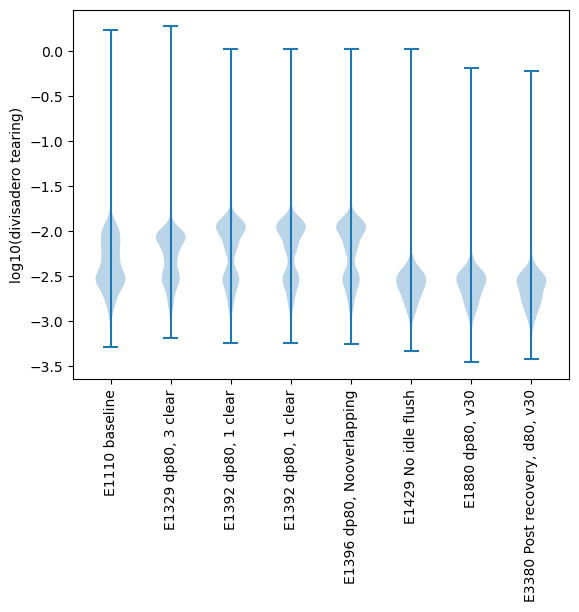
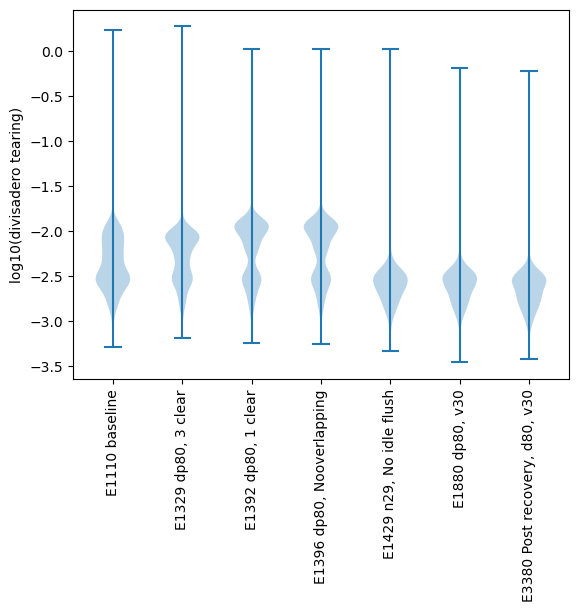
The version of Dec 24

diff --git a/body.tex b/body.tex
@@ -298,10 +298,12 @@ primary acquisition sequences.
   flat pair metrics.
 \end{itemize}
 
+%% add PTC turnoff, Bias stability, Brighter-fatter correlation, and Row means variance to show consistency
+
 \begin{figure}
 \begin{centering}
 \includegraphics[width=0.9\textwidth]{sections/figures/baselineCharacterization/PTC_BProtocol_Comparison.jpg}
-	\caption{Photon Transfer Curve Protocol Comparison
+	\caption{Flat-pair comparison between PTC and B protocol
 \label{fig:PTC_BProtocol_Comparison}}
 \end{centering}
 \end{figure}
@@ -1246,13 +1248,15 @@ However, it was reported that running IDLE\_FLUSH exacerbates the Divisidero tea
 
 This temperature variation in the focal plane can lead to changes in the REB temperature, potentially causing gain variations or instability in the bias. Based on these considerations, we decided to disable IDLE\_FLUSH. The impact of this change on bias stability is discussed in Sections~\ref{bias-stability-2} and~\ref{gain-stability-2}.
 
-Figure \ref{IdleFlushEffect:divisadero} shows the impact on the Divisadero tearing. The runs shown here are selected B protocol runs with different settings. There was a couple of major changes, 1) switching narrower parallel swing voltage, 2) changing the number of clears before the exposure, 3) disabling IDLE\_FLUSH. The major change can be seen when we switched not to run IDLE\_FLUSH at E1429, which brought the overall distribution down. The distributions are consistent after.
 \begin{figure}
 \begin{centering}
 \includegraphics[width=0.9\textwidth]{sections/figures/divisadero.png}
 \end{centering}
-\caption{Impact of enabling and disabling IDLE\_FLUSH on Divisadero tearing}\label{IdleFlushEffect:divisadero}
+\caption{Impact of disabling IDLE\_FLUSH on Divisadero tearing}\label{IdleFlushEffect:divisadero}
 \end{figure}
+Figure \ref{IdleFlushEffect:divisadero} shows the impact on the Divisadero tearing. The runs shown here are selected B protocol runs with different settings in the time order. There were a couple of changes: 1) switching narrower parallel swing voltage, 2) changing the number of clears before the exposure, 3) disabling IDLE\_FLUSH.  Some minor changes in each changes are also included such as changing the numbr of clears, or changing the sequencer file (the change from v29 to v30 incorporated the change in the clear. So it essentially corresponds to change in the clear). The figure includes both ITL and E2V results. The two distinct distributions in earlier runs correspond to those vendor differences (the higher one is E2V and the lower one is ITL). The major change can be seen when we switched not to run IDLE\_FLUSH at E1429, which brought the overall distribution down. The two distributions became indistinguishable, which indicates the majority of the Divisadero tearing for E2V is mostly mitigated.
+
+E3380 was the run taken after the recovery from the shutdown due to poor performance of the Pumped Coolant System. This fact confirms that the metric is consistent over the power cycle.
 
 \subsection{Summary}\label{summary}
 E2V sensors had persistence. We confirmed narrowing parallel swing voltage of the E2V CCD operation greatly reduced persistence. As penalties, we observed 22\% of
@@ -1261,7 +1265,7 @@ brightter-fatter effect, essentially in an isotropic way.
 
 We developed v30 sequencer files that have guider functionality build in and an improved clear of No Pocket Serial Flush.
 
-We also disabled IDLE\_FLUSH to improve the thermal situation.
+We also disabled IDLE\_FLUSH to improve the thermal situation and the Divisadero tearing.
 
 Sequencer files have undergone evolution for both ITL and e2v versions.
 The latest sequencer file from Run 6 was the
@@ -1678,20 +1682,32 @@ Further studies are required in order to converge on the best mitigation
 strategy for the start of the LSST survey.
 
 \subsection{Gain stability}\label{gain-stability-2}
-
-hello world.
-
-This section describes gain stability.
-
+The "relative gain" is defined as the ratio of the signal observed in a CCD divided by the integration of the photodiode with respect to an arbitrary normalization.
+With the fixed flat illumination, the variation in the relative gain over exposures can be utilized to investigate the relative gain difference. We acquired flat images at the same flux level with two distinct temperature conditions: either intentionally altered or maintained constant.
 \begin{itemize}
-\tightlist
-\item
-  No temp variation, fixed flux
-\item
-  no temp variation, variation in flux
-\item
-  Temp variation, fixed flux
+    \item E1496 (dp80, constant temp, v29\_Nop, nm750, 10k e-)
+    \item E1367 (dp80, temp swing, v29, nm750, 50k e-)
+    \item E756 (dp80, gain stability @ 50k e-)
+    \item E1362 (dp80, 10k e-)
 \end{itemize}
+(YU: WORK IN PROGRESS)
+
+
+\begin{figure}[htbp]
+\centering
+\begin{minipage}{0.45\textwidth}
+    \centering
+    \includegraphics[width=\textwidth]{sections/figures/RelgainParametersTrending.png}
+    \caption{Distribution of the stability metric for the e2v amplifiers in run E2136}
+\end{minipage}
+\hfill
+\begin{minipage}{0.45\textwidth}
+    \centering
+    \includegraphics[width=\textwidth]{sections/figures/RelgainDetail.png}
+    \caption{Mosaic of e2v amplifiers identified as instable (white color) in run E2136}
+\end{minipage}
+\end{figure}
+
 
 \section{Sensor features}\label{sensor-features}
 
@@ -2171,8 +2187,7 @@ FP\phantomsection\label{itl_2s_l3cp_v30.seq}{ITL\_2s\_l3cp\_v30.seq} \\
   FP\phantomsection\label{itl_2s_l3cp_v29_noppp.seq}{ITL\_2s\_l3cp\_v29\_Noppp.seq}
   and
   FP\phantomsection\label{e2v_2s_l3cp_v29_nopsf.seq}{E2V\_2s\_l3cp\_v29\_NopSf.seq}.
-  All sequencer files can be found in the
-  \href{https://github.com/lsst-camera-dh/sequencer-files/tree/master/run7}{github
+  All sequencer files can be found in the \href{https://github.com/lsst-camera-dh/sequencer-files/tree/master/run7}{github
   repository}.
 \end{itemize}
 
@@ -2190,11 +2205,7 @@ This section describes run 7 record runs.
 
 All runs use our camera operating configuration, unless otherwise noted.
 
-\begin{longtable}[]{@{}
-  >{\raggedright\arraybackslash}p{(\linewidth - 6\tabcolsep) * \real{0.1421}}
-  >{\raggedright\arraybackslash}p{(\linewidth - 6\tabcolsep) * \real{0.0474}}
-  >{\raggedright\arraybackslash}p{(\linewidth - 6\tabcolsep) * \real{0.0421}}
-  >{\raggedright\arraybackslash}p{(\linewidth - 6\tabcolsep) * \real{0.7579}}@{}}
+\begin{longtable}{|p{2cm}|p{2cm}|p{2cm}|p{10cm}|}
 \caption{Record runs}\tabularnewline
 \toprule\noalign{}
 \begin{minipage}[b]{\linewidth}\raggedright
@@ -2205,7 +2216,7 @@ Run ID
 Links
 \end{minipage} & \begin{minipage}[b]{\linewidth}\raggedright
 Notes
-\end{minipage} \\
+\end{minipage} \\ \hline
 \midrule\noalign{}
 \endfirsthead
 \toprule\noalign{}
@@ -2217,110 +2228,104 @@ Run ID
 Links
 \end{minipage} & \begin{minipage}[b]{\linewidth}\raggedright
 Notes
-\end{minipage} \\
+\end{minipage} \\ \hline
 \midrule\noalign{}
 \endhead
 \bottomrule\noalign{}
 \endlastfoot
+
 \multirow{2}{=}{B protocol} & E1880 & & \\
-& E2233 & & Identical to E1880. Acquired after CCS subsystem reboot \\
-\multirow{5}{=}{PTCs} & E1886 & & Red LED dense. Dark interleaving
-between flat pairs \\
-& E1881 & & Red LED dense. No dark interleaving between flat pairs \\
-& E748 & & nm960 dense \\
-& E2237 & & Red LED dense. Acquired after CCS subsystem reboot. \\
-& E2016 & & Super dense red LED. HV Bias off for R13/Reb2. jGroups
-meltdown interrupted acquisitions, restarted \\
+& E2233 & & Identical to E1880. Acquired after CCS subsystem reboot \\ \hline
+\multirow{5}{=}{PTCs} & E1886 & & Red LED dense. Dark interleaving between flat pairs \\ 
+& E1881 & & Red LED dense. No dark interleaving between flat pairs \\ \hline
+& E748 & & nm960 dense \\ \hline
+& E2237 & & Red LED dense. Acquired after CCS subsystem reboot. \\ \hline
+& E2016 & & Super dense red LED. HV Bias off for R13/Reb2. jGroups meltdown interrupted acquisitions, restarted \\ \hline
 \multirow{5}{=}{Long dark acquisitions} & E1117 & & \\
-& E1116 & & \\
-& E1115 & & \\
-& E1114 & & \\
-& E1075 & & \\
-\multirow{5}{=}{Projector acquisitions} & E1558 & & Flat pairs, fine
-scan in flux from 1-100s in 1s intervals.
-E2V:v29\phantomsection\label{nop}{NoP},
-ITL:v29\phantomsection\label{nopp}{NoPP} \\
+& E1116 & & \\ \hline
+& E1115 & & \\ \hline
+& E1114 & & \\ \hline
+& E1075 & & \\ \hline
+\multirow{5}{=}{Projector acquisitions} & E1558 & & Flat pairs, fine scan in flux from 1-100s in 1s intervals. E2V:v29\phantomsection\label{nop}{NoP}, ITL:v29\phantomsection\label{nopp}{NoPP} \\
 & E1553 & & Flat pairs, coarse scan in flux from 5-120s in 5s
 interval.E2V:v29\phantomsection\label{nop}{NoP},
-ITL:v29\phantomsection\label{nopp}{NoPP} \\
+ITL:v29\phantomsection\label{nopp}{NoPP} \\ \hline
 & E1586 & & One 100s flat exposure, spots moved to selected
 phosphorescent regions.E2V:v29\phantomsection\label{nop}{NoP},
-ITL:v29\phantomsection\label{nopp}{NoPP} \\
+ITL:v29\phantomsection\label{nopp}{NoPP} \\ \hline
 & E2181 & & Flat pairs from 2-60s in 2s intervals. Two 15s darks
 interleaved after flat acquisition. Rectangle on C10
 amplifier.E2V:v29\phantomsection\label{nop}{NoP},
-ITL:v29\phantomsection\label{nopp}{NoPP} \\
-& E2184 & & 10 30s dark images to capture background pattern \\
+ITL:v29\phantomsection\label{nopp}{NoPP} \\ \hline
+& E2184 & & 10 30s dark images to capture background pattern \\ \hline
 \multirow{5}{=}{OpSim runs} & E1717 & & Long dark sequence, no filter
-changes \\
+changes \\ 
 & E2330 & & Short dark sequence, filter changes in headers through
-OCS \\
+OCS \\ \hline
 & E1414 & & 30 minutes OpSim run with shutter control, filter change,
-and realistic survey cadence \\
-& E2328 & & Flats with shutter-controlled exposure \\
+and realistic survey cadence \\ \hline
+& E2328 & & Flats with shutter-controlled exposure \\ \hline
 & E1657 & & 10 hour OpSim dark run, \textasciitilde50\% of darks were
-acquired properly \\
-\multirow{5}{=}{Phosphorescence datasets} & E2015 & & 10 flats at 10ke-
-followed by 10x15s darks \\
-& E2014 & & 1 flat at 10ke- followed by 10x15s darks \\
-& E2011 & & 20 flats at 10ke- followed by 10x15s darks \\
-& E2012 & & 10 flats at 1ke- followed by 10x15 s darks \\
-& E2013 & & 10 flats at 10ke- followed by 10x15s darks. Interleaved
-biases with the darks \\
-\multirow{10}{=}{Tree ring flats} & E1050 & & \\
-& E1052 & & \\
-& E1053 & & \\
-& E1055 & & \\
-& E1056 & & \\
-& E1021 & & \\
-& E1023 & & \\
-& E1024 & & \\
-& E1025 & & \\
-& E1026 & & \\
-\multirow{7}{=}{Gain stability runs} & E1955 & & \\
-& E2008 & & \\
-& E1968 & & \\
-& E1367 & & \\
-& E1362 & & \\
-& E756 & & \\
-& E1496 & & \\
-\multirow{25}{=}{Persistence datasets} & E1503 & & \\
-& E1504 & & \\
-& E1505 & & \\
-& E1506 & & \\
-& E2286 & & \\
-& E1502 & & \\
-& E1501 & & \\
-& E1500 & & \\
-& E1499 & & \\
-& E1498 & & \\
-& E1494 & & \\
-& E1493 & & \\
-& E1492 & & \\
-& E1490 & & \\
-& E1491 & & \\
-& E1489 & & \\
-& E1488 & & \\
-& E1487 & & \\
-& E1486 & & \\
-& E1485 & & \\
-& E1478 & & \\
-& E1477 & & \\
-& E1479 & & \\
-& E1483 & & \\
-& E1484 & & \\
-\multirow{12}{=}{Guider ROI acquisitions} & E1510 & & \\
-& E1518 & & \\
-& E1519 & & \\
-& E1508 & & \\
-& E1509 & & \\
-& E1520 & & \\
-& E1511 & & \\
-& E1521 & & \\
-& E1512 & & \\
-& E1513 & & \\
-& E1514 & & \\
-& E1517 & & \\
+acquired properly \\ \hline
+\multirow{5}{=}{Phosphorescence datasets} & E2015 & & 10 flats at 10ke- followed by 10x15s darks \\ 
+& E2014 & & 1 flat at 10ke- followed by 10x15s darks \\ \hline
+& E2011 & & 20 flats at 10ke- followed by 10x15s darks \\ \hline
+& E2012 & & 10 flats at 1ke- followed by 10x15 s darks \\ \hline
+& E2013 & & 10 flats at 10ke- followed by 10x15s darks. Interleaved biases with the darks \\ \hline
+\multirow{10}{=}{Tree ring flats} & E1050 & & \\ 
+& E1052 & & \\ \hline
+& E1053 & & \\ \hline
+& E1055 & & \\ \hline
+& E1056 & & \\ \hline
+& E1021 & & \\ \hline
+& E1023 & & \\ \hline
+& E1024 & & \\ \hline
+& E1025 & & \\ \hline
+& E1026 & & \\ \hline
+\multirow{7}{=}{Gain stability runs} & E1955 & & \\ 
+& E2008 & & \\ \hline
+& E1968 & & \\ \hline
+& E1367 & & \\ \hline
+& E1362 & & \\ \hline
+& E756 & & \\ \hline
+& E1496 & & \\ \hline
+\multirow{25}{=}{Persistence datasets} & E1503 & & \\ 
+& E1504 & & \\ \hline
+& E1505 & & \\ \hline
+& E1506 & & \\ \hline
+& E2286 & & \\ \hline
+& E1502 & & \\ \hline
+& E1501 & & \\ \hline
+& E1500 & & \\ \hline
+& E1499 & & \\ \hline
+& E1498 & & \\ \hline
+& E1494 & & \\ \hline
+& E1493 & & \\ \hline
+& E1492 & & \\ \hline
+& E1490 & & \\ \hline
+& E1491 & & \\ \hline
+& E1489 & & \\ \hline
+& E1488 & & \\ \hline
+& E1487 & & \\ \hline
+& E1486 & & \\ \hline
+& E1485 & & \\ \hline
+& E1478 & & \\ \hline
+& E1477 & & \\ \hline
+& E1479 & & \\ \hline
+& E1483 & & \\ \hline
+& E1484 & & \\ \hline
+\multirow{12}{=}{Guider ROI acquisitions} & E1510 & & \\ 
+& E1518 & & \\ \hline
+& E1519 & & \\ \hline
+& E1508 & & \\ \hline
+& E1509 & & \\ \hline
+& E1520 & & \\ \hline
+& E1511 & & \\ \hline
+& E1521 & & \\ \hline
+& E1512 & & \\ \hline
+& E1513 & & \\ \hline
+& E1514 & & \\ \hline
+& E1517 & & \\ \hline
 \end{longtable}
 
 \phantomsection\label{citations}
@@ -2365,6 +2370,8 @@ biases with the darks \\
 \appendix
 
 \section{FCS work}
+
+\section{eo-pipe reference figures}
 
 \section{CCS work}
 \subsection{JGroups issue}
